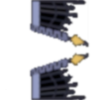
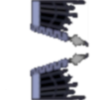
Default and treasure doors added

Changed region(s): [[0.69, 0.54, 0.84, 0.66], [0.69, 0.33, 0.84, 0.45]]

diff --git a/ui/game_view.py b/ui/game_view.py
@@ -24,6 +24,14 @@ class GameView(QWidget):
         self.doors_down = QPixmap("resources/images/backgrounds/doors_down.png")
         self.doors_right = QPixmap("resources/images/backgrounds/doors_right.png")
         self.doors_left = QPixmap("resources/images/backgrounds/doors_left.png")
+        self.doors_up_treasure = QPixmap("resources/images/backgrounds/doors_up_treasure.png")
+        self.doors_down_treasure = QPixmap("resources/images/backgrounds/doors_down_treasure.png")
+        self.doors_right_treasure = QPixmap("resources/images/backgrounds/doors_right_treasure.png")
+        self.doors_left_treasure = QPixmap("resources/images/backgrounds/doors_left_treasure.png")
+        self.doors_up_next_level = QPixmap("resources/images/backgrounds/doors_up_next_level.png")
+        self.doors_down_next_level = QPixmap("resources/images/backgrounds/doors_down_next_level.png")
+        self.doors_right_next_level = QPixmap("resources/images/backgrounds/doors_right_next_level.png")
+        self.doors_left_next_level = QPixmap("resources/images/backgrounds/doors_left_next_level.png")
         self.doors_up_boss = QPixmap("resources/images/backgrounds/doors_up_boss.png")
         self.doors_down_boss = QPixmap("resources/images/backgrounds/doors_down_boss.png")
         self.doors_right_boss = QPixmap("resources/images/backgrounds/doors_right_boss.png")
@@ -305,9 +313,9 @@ class GameView(QWidget):
                 case "boss":
                     painter.setBrush(self.doors_up_boss)
                 case "treasure":
-                    painter.setBrush(self.doors_up)
+                    painter.setBrush(self.doors_up_treasure)
                 case "next_level":
-                    painter.setBrush(self.doors_up)
+                    painter.setBrush(self.doors_up_next_level)
                 case _:
                     painter.setBrush(self.doors_up)
             painter.drawRect(ROOM_SIZE[0] // 2 - door_w // 2, 0, door_w, door_h)
@@ -317,9 +325,9 @@ class GameView(QWidget):
                 case "boss":
                     painter.setBrush(self.doors_down_boss)
                 case "treasure":
-                    painter.setBrush(self.doors_down)
+                    painter.setBrush(self.doors_down_treasure)
                 case "next_level":
-                    painter.setBrush(self.doors_down)
+                    painter.setBrush(self.doors_down_next_level)
                 case _:
                     painter.setBrush(self.doors_down)
             painter.drawRect(ROOM_SIZE[0] // 2 - door_w // 2, ROOM_SIZE[1] - door_h, door_w, door_h)
@@ -329,9 +337,9 @@ class GameView(QWidget):
                 case "boss":
                     painter.setBrush(self.doors_left_boss)
                 case "treasure":
-                    painter.setBrush(self.doors_left)
+                    painter.setBrush(self.doors_left_treasure)
                 case "next_level":
-                    painter.setBrush(self.doors_left)
+                    painter.setBrush(self.doors_left_next_level)
                 case _:
                     painter.setBrush(self.doors_left)
             painter.drawRect(0, ROOM_SIZE[1] // 2 - door_w // 2, door_h, door_w)
@@ -341,9 +349,9 @@ class GameView(QWidget):
                 case "boss":
                     painter.setBrush(self.doors_right_boss)
                 case "treasure":
-                    painter.setBrush(self.doors_right)
+                    painter.setBrush(self.doors_right_treasure)
                 case "next_level":
-                    painter.setBrush(self.doors_right)
+                    painter.setBrush(self.doors_right_next_level)
                 case _:
                     painter.setBrush(self.doors_right)
             painter.drawRect(ROOM_SIZE[0] - door_h, ROOM_SIZE[1] // 2 - door_w // 2, door_h, door_w)
